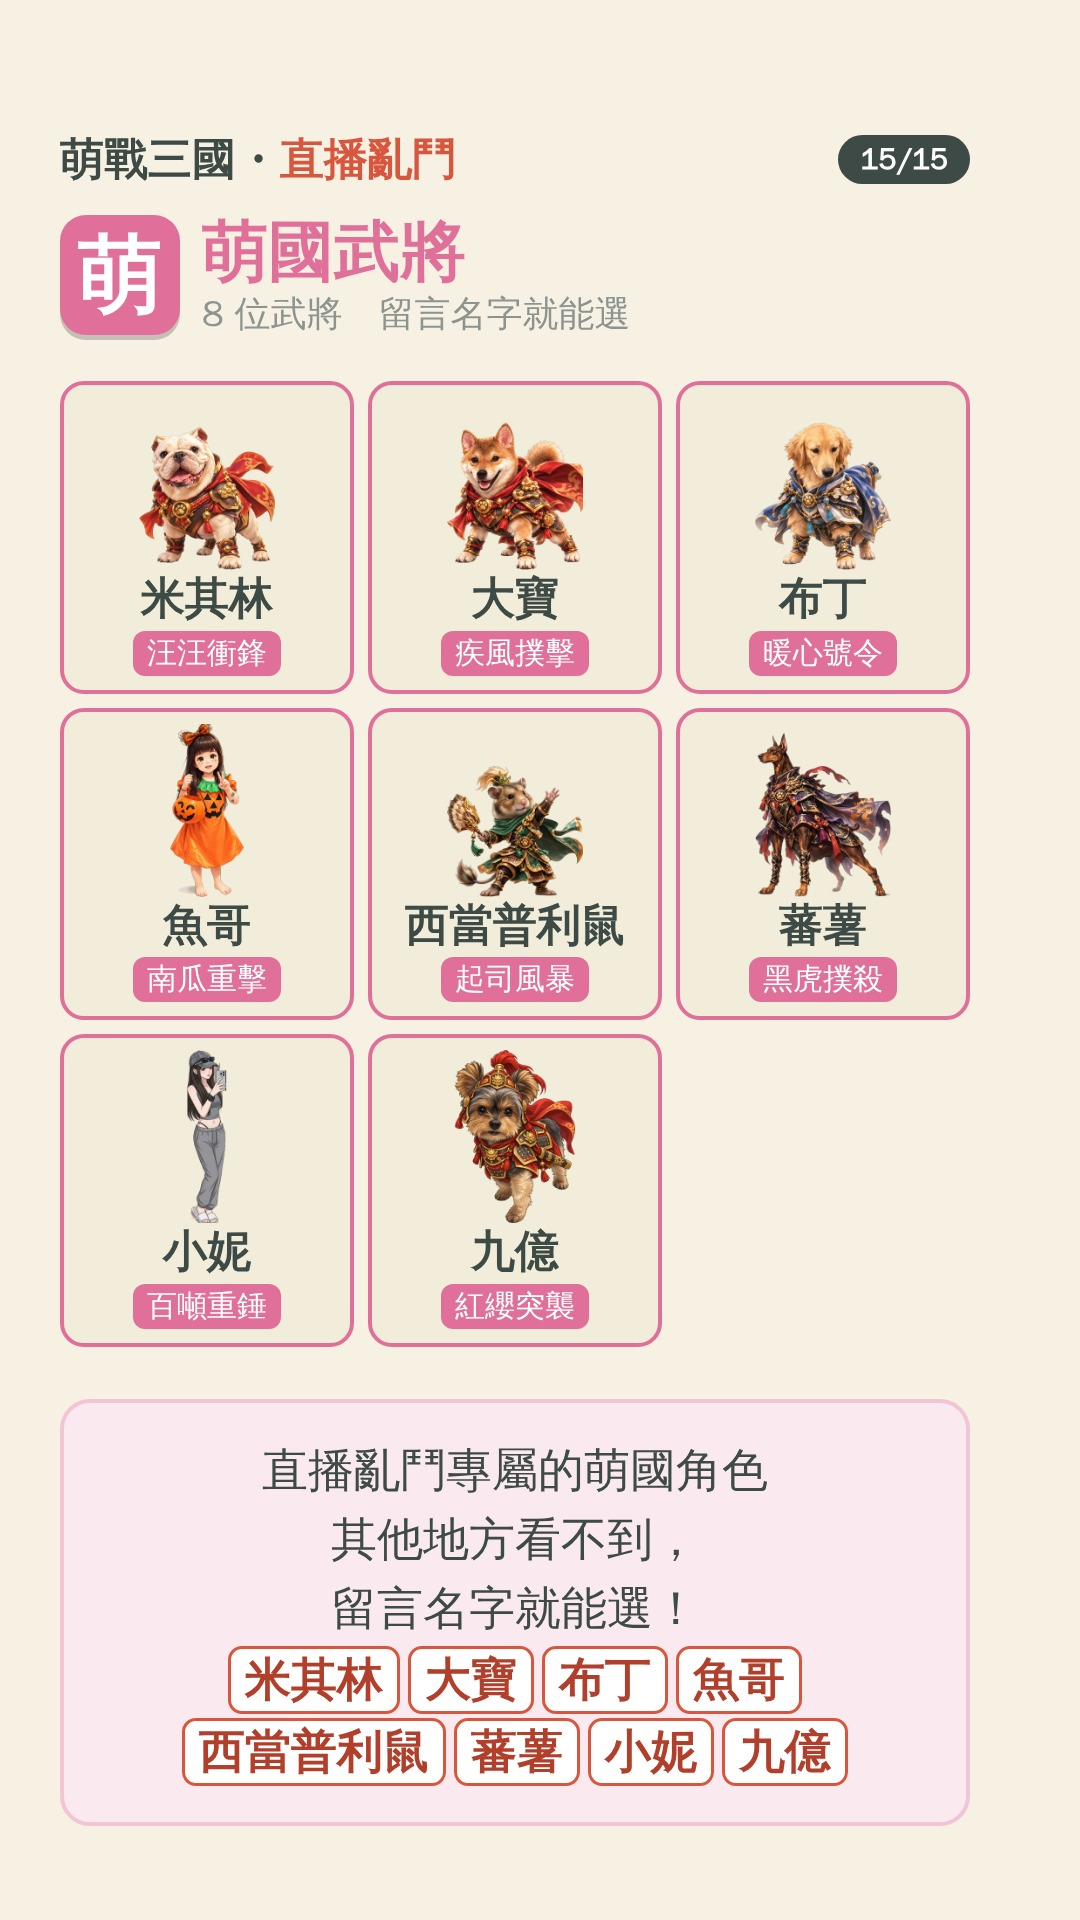
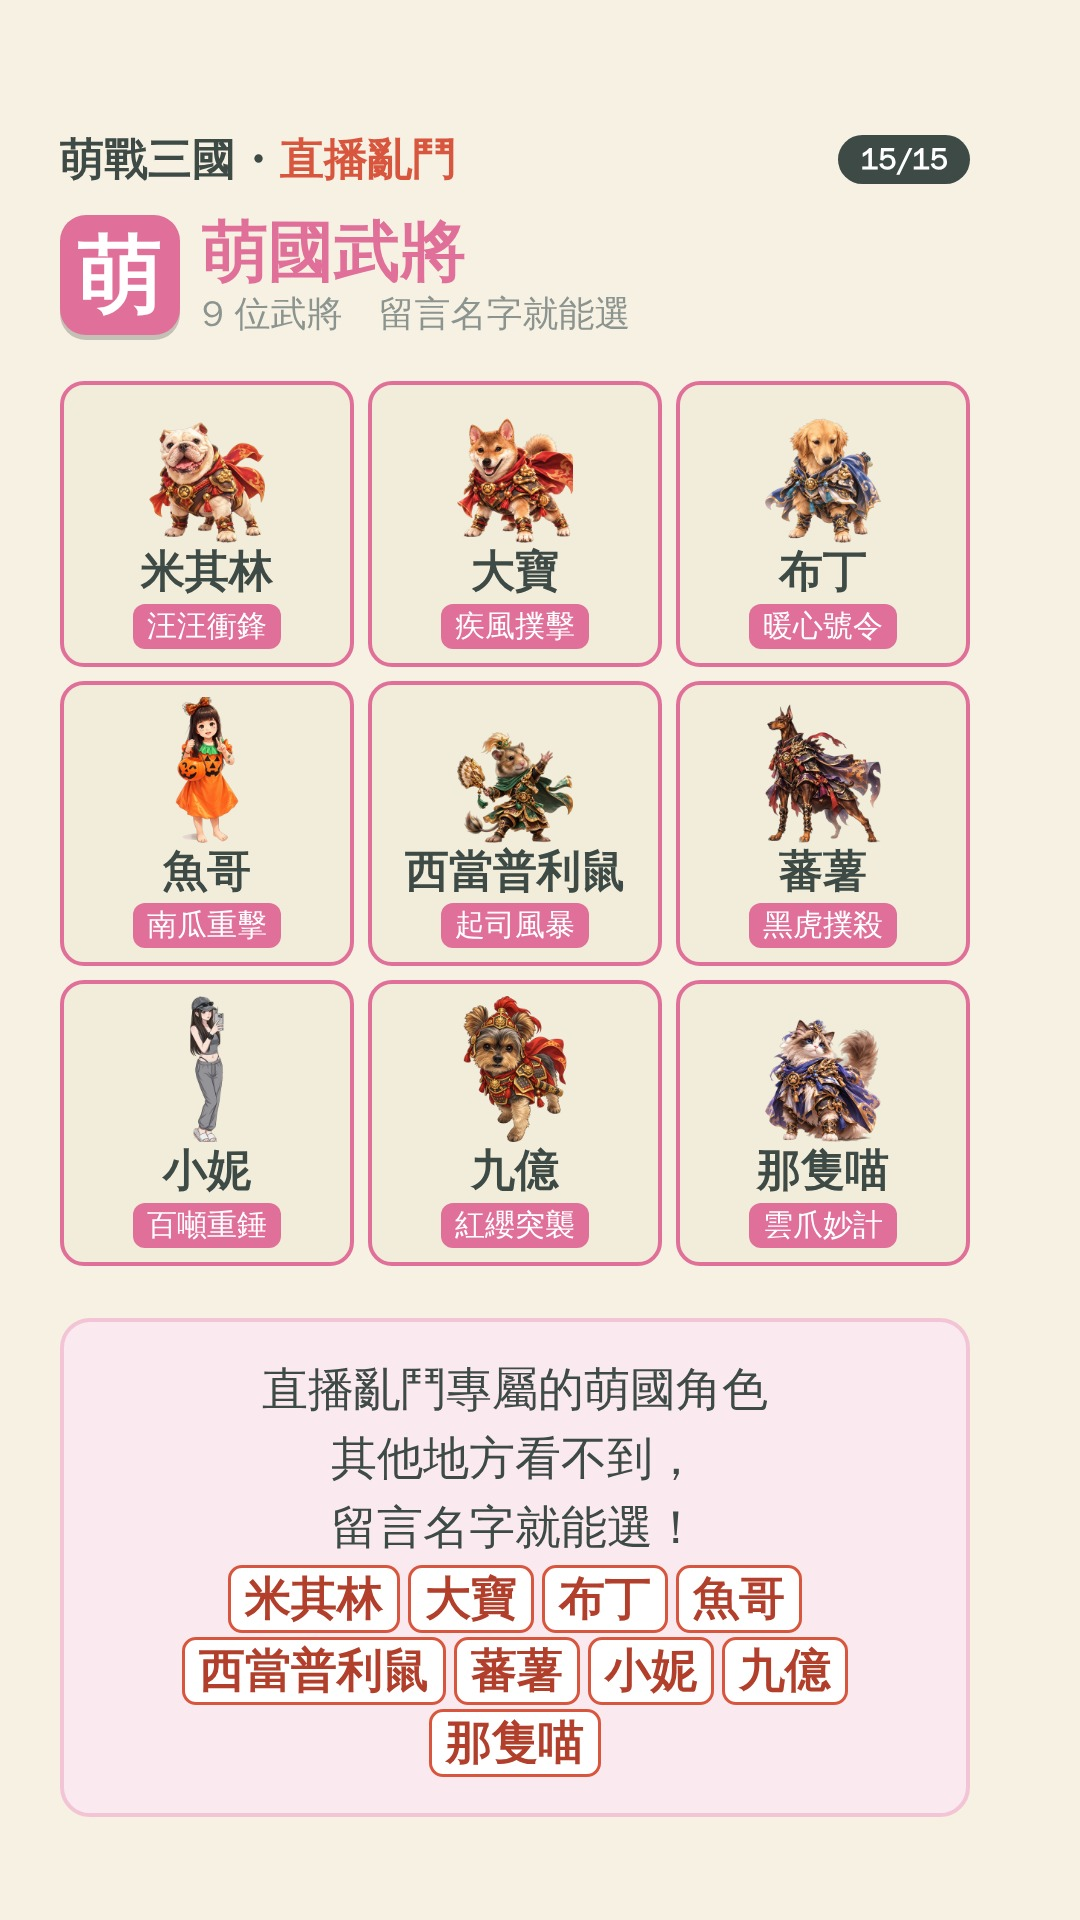
新增萌國角色「那隻喵」（布偶貓謀士）＋動畫提示詞，名冊與玩法說明圖更新
Claude-Session: https://claude.ai/code/session_01J1mi4tQsbQufTfnNbsrTar

Changed region(s): [[0.0306, 0.2188, 0.9167, 0.9688], [0.8861, 0.6875, 0.9167, 0.75], [0.1833, 0.1562, 0.2139, 0.1875]]

diff --git a/data/extra-heroes.js b/data/extra-heroes.js
@@ -23,4 +23,6 @@ window.HEROES_DATA = window.HEROES_DATA.concat([
   { heroId: 'xiaoni', displayName: '小妮', faction: 'Meng', troop: 'Vanguard', baseHp: 928, baseAtk: 52, baseArmor: 47, skillName: '百噸重錘', extra: true },
   // 九億（原名 Joy，2026-11-15 咖哩改名；heroId 仍是 joy）：萌國的約克夏小狗遊俠（紅纓頭盔、金紅鎧甲、背著劍鞘）。能力值取遊俠平均（同大寶），技能「紅纓突襲」。名字以外的設定（兵種、數值、技能名）是 Claude 先定的。
   { heroId: 'joy', displayName: '九億', faction: 'Meng', troop: 'Ranger', baseHp: 540, baseAtk: 72, baseArmor: 25, skillName: '紅纓突襲', extra: true },
+  // 那隻喵（2026-11-16 咖哩第九隻）：萌國的布偶貓謀士（藍紫金披風、肉球徽章、小金冠；設定稿標「貓將・智謀・輔佐・謀略」）。能力值取謀士水準（同西當普利鼠：血少、攻中、防低），技能「雲爪妙計」，演出＝法陣落雷。名字以外的設定（兵種、數值、技能名）是 Claude 先定的。
+  { heroId: 'nekomeow', displayName: '那隻喵', faction: 'Meng', troop: 'Strategist', baseHp: 600, baseAtk: 68, baseArmor: 28, skillName: '雲爪妙計', extra: true },
 ]);

diff --git a/tools/make_howto.js b/tools/make_howto.js
@@ -223,7 +223,7 @@ const AVAIL_H = 1920 - 130 - 300 - 90 - 140;   // 扣掉上面標題列、陣營
 for (const key of FACTION_ORDER) {
   const f = factions[key], list = heroData.filter(h => h.faction === key);
   if (!list.length) continue;
-  const rows = Math.ceil(list.length / 3), perRow = Math.min(rows === 1 ? 520 : 430, (AVAIL_H - (key === 'Meng' ? 360 : 0) - (rows - 1) * 14) / rows), imgH = Math.round(perRow - 118);
+  const rows = Math.ceil(list.length / 3), perRow = Math.min(rows === 1 ? 520 : 430, (AVAIL_H - (key === 'Meng' ? 440 : 0) - (rows - 1) * 14) / rows), imgH = Math.round(perRow - 118);
   slides.push(`<div class="slide" style="--c:${f.color}">${top(slides.length + 1)}<div class="body" style="justify-content:flex-start">
     <div class="fac-head"><div class="seal">${f.label}</div><div class="tt">${f.label + (key === 'Meng' ? '國' : '')}武將<small>${list.length} 位武將　留言名字就能選</small></div></div>
     <div class="grid3">${list.map(h => `<div class="hc"><div class="pic"><img src="${img(h.heroId + '.png')}" style="height:${imgH}px"></div><div class="nm">${h.displayName}</div><div class="sk">${h.skillName}</div></div>`).join('')}</div>

diff --git a/js/config.js b/js/config.js
@@ -16,6 +16,7 @@ window.GAME_CONFIG = {
     hamster:  { attack: { style: 'projectile', emoji: '🧀', color: '#ffd35c' }, skill: { style: 'emojiStorm', emoji: '🧀', n: 18, color: '#ffd35c' } },   // 西當普利鼠：丟起司、起司旋風
     yam:      { attack: { style: 'claw', color: '#b06cff' }, skill: { style: 'tigerPounce', color: '#b06cff' } },                      // 蕃薯：紫色爪痕、猛虎撲殺
     joy:      { attack: { style: 'claw', color: '#ff5a4d' }, skill: { style: 'emojiRain', emoji: '🍗', n: 10, big: 0.6, color: '#ffb36b' } },   // Joy：紅色爪痕、大雞腿雨
+    nekomeow: { attack: { style: 'claw', color: '#8f9bff' }, skill: { style: 'emojiStorm', emoji: '🐾', n: 16, color: '#8f9bff' } },   // 那隻喵：藍紫爪痕、肉球旋風
     xiaoni:   { attack: { style: 'shockSmash', color: '#ffd35c' }, skill: { style: 'stampSmash', text: '100T', color: '#ffd35c' } },   // 小妮：重擊震波、100T 大字砸下來
   },
   heroFxAuto: true,   // 沒登記的萌國角色自動配一組專屬特效（false＝不配，維持依兵種的演出）

diff --git a/js/version.js b/js/version.js
@@ -1,3 +1,3 @@
 // 目前的版本號。每次有更新要上線，就跑 python3 tools/bump_version.py（會同時改這個檔和 version.json）。
 // 直播畫面會定時去讀 version.json，發現跟自己不一樣就自動更新（見 js/updater.js）。
-window.APP_VERSION = '2026-11-16.21';
+window.APP_VERSION = '2026-11-16.22';

diff --git a/CLAUDE.md b/CLAUDE.md
@@ -192,7 +192,7 @@
 
 ## 素材與資料：來自 Curry_Games（只讀）
 - `sky03104/Curry_Games` 是另一個遊戲「萌戰三國」。**只能讀，不可修改、不可 commit、不可 push。**
-- 武將資料以 `Curry_Games/UnityProject/Assets/_Project/Data/heroes.json` 為準（38 隻）。**例外：直播亂鬥自己新增的角色**放在 `data/extra-heroes.js`（手寫，不會被同步工具蓋掉），目前有「米其林」「大寶」「布丁」（都是萌國）。
+- 武將資料以 `Curry_Games/UnityProject/Assets/_Project/Data/heroes.json` 為準（38 隻）。**例外：直播亂鬥自己新增的角色**放在 `data/extra-heroes.js`（手寫，不會被同步工具蓋掉），目前有「米其林」「大寶」「布丁」「魚哥」「西當普利鼠」「蕃薯」「小妮」「九億」「那隻喵」（都是萌國）。
   中文名、英文 ID、陣營的對應**一律照這個檔，不要自己猜**。
   - 注意：檔案裡陣營的寫法是 `Wei`／`Shu`／`Wu`／`Qun`（群不是寫「群」）。
 - 武將圖用**全身圖**：`Curry_Games/UnityProject/Assets/_Project/Resources/HeroPortraitsFullBody2D/`，
@@ -215,6 +215,7 @@
   - 九億（原名 Joy，**2026-11-15 咖哩改名成「九億」**，`heroId` 仍是 `joy`、檔名不變；觀眾打舊名字 Joy 也認，`heroAliases`）（2026-11-15 咖哩第八隻）：約克夏小狗穿紅纓頭盔、金紅鎧甲、背著劍鞘，`heroId: joy`，遊俠（技能演出＝光彈，專屬特效＝紅色爪痕＋大雞腿雨🍗），血 540／攻 72／防 25（同大寶），技能「紅纓突襲」。名字以外的設定是 Claude 先定的。圖是咖哩給的透明背景 PNG，但外面有一圈紅色半透明光暈，所以先把半透明部分（不透明度 ≤200）去掉、鋪白底再用 `tools/cutout_hero.py` 去背（單張圖裡的狗高 396px，之後做動畫條 `--match-height 396`）。動畫都做好了（Gemini 生圖，`make_anim_sheet.py`，三組都用 `--scale 1.15` 讓狗跟單張圖一樣大）：**待機＝啃大雞腿→啃成骨頭→骨頭啃光**（`joy_idle.png`，8 格，每秒 2.5 格連播 2 輪，回血 `eat` 也用同一組）、**攻擊／技能＝撲咬**（`joy_attack.png`，8 格，原圖面向右所以 `--faces right`，跳起來的格用 `--lift 0,0,8,20,35,0,0,0`，第 5 格咬下去 `hitFrame: 5`，普攻 12 格/秒、技能 9 格/秒）、**走路**（`joy_walk.png`）：咖哩給的原圖是 4x3，中間兩欄被一隻放大的狗擋住，只用左右兩欄乾淨的 6 格（`--grid 4x3 --pick 1,5,9,4,8,12 --erase-grid 4 --faces left`），每秒 8 格。驗證：瀏覽器測過上場、走路、待機都有播、無錯誤；⚠ 攻擊動畫沒親眼看過播放，沒在直播軟體裡看過。
   - **米其林、大寶的專屬攻擊動畫**（2026-11-14）：米其林＝低頭衝撞頂飛（`michelin_attack.png`，8 格，第 5 格撞擊；普攻 13 格/秒、技能 11 格/秒）；大寶＝蓄力後嘴裡射出金色光球（`dabao_attack.png`，7 格，第 4 格光球射出；普攻 10 格/秒、技能 9 格/秒）。普攻、技能共用同一組。兩組都是 Gemini 生成，**排版不整齊**：米其林是 2 欄 4 列有黑格線（`--grid 2x4 --erase-grid 5`），而且 Gemini 把第 3~7 格畫成面向右，所以 `make_anim_sheet.py` 新增 `--flip 3,4,5,6,7`（個別幾格單獨左右翻面）；大寶是 3x3 共 9 格，其中第 5 格只有光球沒有狗、第 7 格狗被切掉一半，所以新增 `--pick 1,2,3,4,6,8,9`（只用指定的格，順序自訂），並用 `--cx/--feet --scale 1.29` 手動對位（光球和狗連在一起，自動判斷會偏）。大寶的光球是畫在動畫裡的，技能同時還有遊戲自己的光彈特效，兩個會同時出現。驗證：瀏覽器測過兩隻的普攻、技能動畫都有播、無錯誤；⚠ 沒在直播軟體裡看過。
   - **小妮的攻擊改慢、錘子換金色**（2026-11-15 咖哩要求；先試過程式把黑錘改紅，後來咖哩給了 Gemini 重生的金色大錘新圖就整組換掉）：新圖第 6、7 格的錘頭和身體疊在一起（連成一塊，工具切不開），所以第 7 格（砸地）用顏色分開處理後再拼回去；第 7 格左邊的塵土有一條垂直切痕；攻擊 3.5 格/秒、技能 2.8 格/秒（咖哩再嫌快，原本 5／4），整段約 2.3／2.9 秒，砸中約 1.9／2.3 秒。**新機制 `hitFrame`**：`heroAnims.<id>.attack／skill` 可寫 `hitFrame: 7`（第幾格打中），衝撞時間與傷害數字就對在那一格（沒寫的武將仍是固定 0.31 秒）。驗證：瀏覽器測過普攻約 1.3 秒時傷害數字出現、錘子剛好砸在地上；⚠ 錘頭上色是程式按位置挑的，個別格子頭髮或手邊有零星紅點。
+  - **那隻喵**（2026-11-16 咖哩第九隻）：布偶貓謀士（藍眼、深棕白毛、小金冠、藍紫金邊披風、肉球徽章；咖哩給的設定稿上寫「貓將・雲瑛・智謀・輔佐・謀略」，**遊戲裡名字用咖哩指定的「那隻喵」**），`heroId: nekomeow`，謀士（技能演出＝法陣落雷），血 600／攻 68／防 28（同西當普利鼠），技能「雲爪妙計」。名字以外的設定（兵種、數值、技能名）是 Claude 先定的。圖：從咖哩給的角色設定稿裁出左上最大的那隻（座標約 0,0～715,762），用 `tools/cutout_hero.py` 去背（乾淨，沒有留下設定稿的字或其他視角），`assets/heroes/nekomeow.png`；圖面向左（臉朝向畫面左邊偏正面）。專屬特效：藍紫色爪痕（普攻）＋肉球🐾旋風（技能，`emojiStorm`）。**逐格動畫還沒做**（待機／走路／攻擊／技能）：提示詞在 `tools/anim_prompts/nekomeow.md`（含共用規格＋四個動畫逐格描述，建議命中格：普攻第 5 格、技能第 6 格），咖哩用 Gemini 生圖後再交給 Claude 用 `make_anim_sheet.py` 處理並登記 `heroAnims`；在那之前這隻先用整張圖＋程式做的動態（跟剛加入時的其他萌國角色一樣），賽跑時沒有走路動畫會滑過去。名冊圖（`roster/`）與玩法說明圖（第 15 張萌國頁，9 位）已重新產生；萌國頁因為多一隻，下方文字卡預留空間從 360 改 440 才收得進安全區。驗證：瀏覽器測過留言「那隻喵」上場、顯示「萌・那隻喵」、普攻與技能無錯誤；⚠ 沒在直播軟體裡看過，特效顏色與演出沒細看。
   - 觀眾第一次上場是「留言裡含武將名就算」，所以聊天提到「米其林餐廳」之類的詞也會讓還沒上場的人帶著米其林上場。
 - 同步方式：`python3 tools/sync_from_curry_games.py`（需要 Pillow），會重新產生 `data/heroes.js`，
   並把全身圖縮成 312x396 放到 `assets/heroes/`（原圖每張約 0.5MB，縮小後整包約 7MB）。
@@ -334,8 +335,9 @@
 | `index.html` | 入口。直接開＝帶假事件面板的試玩模式；網址加 `?obs=1`＝只有透明遊戲畫面（給 OBS） |
 | `js/config.js` | **設定檔**：禮物、傷害、血量、復活秒數、顏色 |
 | `data/heroes.js` | 38 隻武將資料（自動產生） |
-| `assets/heroes/` | 44 張武將全身圖（已縮小）：38 張來自萌戰三國，加上自己新增的米其林、大寶、布丁、魚哥、西當普利鼠、蕃薯 |
-| `data/extra-heroes.js` | 自己新增的角色資料（手寫）：米其林、大寶、布丁 |
+| `assets/heroes/` | 47 張武將全身圖（已縮小）：38 張來自萌戰三國，加上自己新增的萌國 9 隻（米其林、大寶、布丁、魚哥、西當普利鼠、蕃薯、小妮、九億、那隻喵）|
+| `data/extra-heroes.js` | 自己新增的角色資料（手寫）：萌國 9 隻 |
+| `tools/anim_prompts/` | 給生圖工具的逐格動畫提示詞（目前有那隻喵） |
 | `tools/cutout_hero.py` | 把角色圖去背並轉成遊戲用的全身圖 |
 | `js/events.js` | 事件來源層（假面板／之後的 TikTok） |
 | `js/gift-settings.js` | TikTok 禮物 → 動作的設定（存在瀏覽器與直播用網址裡） |

diff --git a/tools/anim_prompts/nekomeow.md b/tools/anim_prompts/nekomeow.md
@@ -1,0 +1,69 @@
+# 那隻喵（nekomeow）逐格動畫提示詞（給 Gemini 等生圖工具）
+
+用法：每次都**附上參考圖**（`assets/heroes/nekomeow.png`，或設定稿裡最大的那隻貓），貼上「共用規格」＋下面某一個動畫的提示詞。
+生成後把圖給 Claude，用 `tools/make_anim_sheet.py` 轉成遊戲用的動畫條，並登記進 `config.js` 的 `heroAnims`。
+建議命中格：普攻第 5 格（`hitFrame: 5`）、技能第 6 格（`hitFrame: 6`）。
+
+## 共用規格（每個動畫都要貼）
+- 角色：附圖裡的布偶貓「那隻喵」——藍眼、深棕＋白的毛色、小金冠、藍紫色金邊披風、金色肩甲與護腕、胸前金色肉球徽章、藍色流蘇。每一格造型、毛色、配件必須完全一樣。
+- 背景：**純綠色 #00FF00**（貓有白毛，不要白色背景），整張圖只有這一種綠色，不要地面、不要陰影、不要漸層。
+- 排版：**8 格，4 欄 × 2 列**，每格一樣大、等距排列，格與格之間留綠色空白；**不要格線、邊框、文字、編號**。閱讀順序由左到右、由上到下。
+- 每一格：貓**全身完整入鏡**（含尾巴、披風、流蘇，不被切到邊）；貓的大小每格一致；腳底站的高度每格一致（跳起來的格除外）。
+- 方向：**貓面向畫面左邊**（側面或 3/4 側面，臉朝左）。
+- 畫風：跟附圖一樣的精緻插畫風，毛髮細緻有層次。
+- 特效（若有）：只用**不透明**的藍紫色雲紋、金色線條，**不要半透明光暈、煙霧、模糊發光**（會跟綠色背景混在一起，去背會髒）。
+
+---
+
+## 1. 待機（idle）——洗臉理毛，8 格，循環播放
+8 格由左到右、由上到下：
+1. 四腳站立，放鬆，尾巴自然垂下，披風靜止。
+2. 頭微低，一隻前爪抬起準備舔。
+3. 舔肉球，眼睛瞇起，耳朵微微往後。
+4. 繼續舔肉球，舌頭伸出一小截。
+5. 用舔過的肉球擦臉頰（洗臉動作），頭微微歪向一邊。
+6. 繼續擦到耳朵後面，耳朵被壓向後，表情舒服。
+7. 放下前爪，輕輕甩頭，披風與流蘇微微飄起。
+8. 回到站姿，尾巴翹高一點，神情得意（動作要能接回第 1 格，循環不跳）。
+
+（想要第二組待機可以隨機換著播：「伸懶腰→打哈欠→坐下蹲坐→尾巴捲住腳」，一樣 8 格。）
+
+## 2. 走路（walk）——四足側面走路，8 格，循環播放
+貓是四腳著地走路，面向左，從側面看，**第 8 格要能順順接回第 1 格**。
+1. 接觸：靠畫面前面的前爪向前伸出著地，後腳在後面蹬。
+2. 下沉：身體微微下壓，披風往後飄起。
+3. 經過：四肢收攏、經過身體正下方，尾巴往上一點。
+4. 上升：身體微微抬起，另一隻前爪向前伸出。
+5. 接觸：另一側前爪向前伸出著地（對稱第 1 格）。
+6. 下沉：身體微下壓，流蘇往前晃。
+7. 經過：四肢收攏經過身體下方，尾巴尖左右擺。
+8. 上升：身體抬起，準備回到第 1 格。
+全程：尾巴一直輕輕左右擺、披風與流蘇隨步伐飄動、頭保持穩定看前方。
+
+## 3. 普攻（attack）——撲擊＋肉球爪擊，8 格，第 5 格命中
+1. 蓄力：身體壓低、重心後移，後腿彎曲，尾巴翹起，眼神瞪向前方。
+2. 後腿蹬地，身體前傾，披風開始往後飄。
+3. 起跳前撲，身體伸展拉長，前爪向前伸。
+4. 空中：右前爪高舉，亮出爪子，披風被風吹得大幅往後飄。
+5. **【命中】** 前爪用力向前揮下，**一道藍紫色弧形爪痕**（不透明線條）劃過，表情凶猛、張嘴露牙。
+6. 爪痕殘影還在，身體衝到最前面，前爪伸到最遠。
+7. 落地：前腳先著地、後腳跟上，披風向前飄落。
+8. 站穩，回到接近第 1 格的站姿，尾巴甩一下。
+
+## 4. 技能「雲爪妙計」（skill）——謀略施法，8 格，第 6 格施放
+貓是謀士，這招是站起來施放「肉球符印＋雲紋」的法術。
+1. 站穩，深吸一口氣，眼神變得銳利，披風開始輕飄。
+2. 後腿站起（人立），身體挺直，前爪還在胸前。
+3. 兩隻前爪高舉過頭，胸前的肉球徽章亮起金光（用不透明的金色描邊表現，不要光暈）。
+4. 兩爪之間浮現一個金色肉球符印，周圍有幾條藍紫色雲紋盤繞。
+5. 符印變大，雲紋變多、旋轉，披風與毛髮被氣流吹起。
+6. **【施放】** 前爪向前（畫面左側）用力一推，**大型金色肉球符印＋藍紫雲紋飛出**，眼睛發亮，嘴角帶笑。
+7. 符印飛遠，貓身體還保持推出的姿勢，披風大幅往後飄。
+8. 收勢，四腳回到站姿，尾巴輕輕晃，披風慢慢落下（接近第 1 格）。
+
+---
+
+## 小提醒
+- 一次畫 8 格常會失敗（格子疊在一起、有特寫、貓大小不一）。失敗時改成**一格一格畫**：每次都附上「參考圖＋這個動畫已經畫好的第 1 格」，說「同一隻貓、同樣大小、同樣背景，畫第 N 格：……」。
+- 如果 Gemini 硬是畫了黑色格線，沒關係，Claude 的工具可以清格線，但**貓的身體不要被格線切到**。
+- 如果有幾格貓畫成面向右，也沒關係，工具可以單獨翻面。
